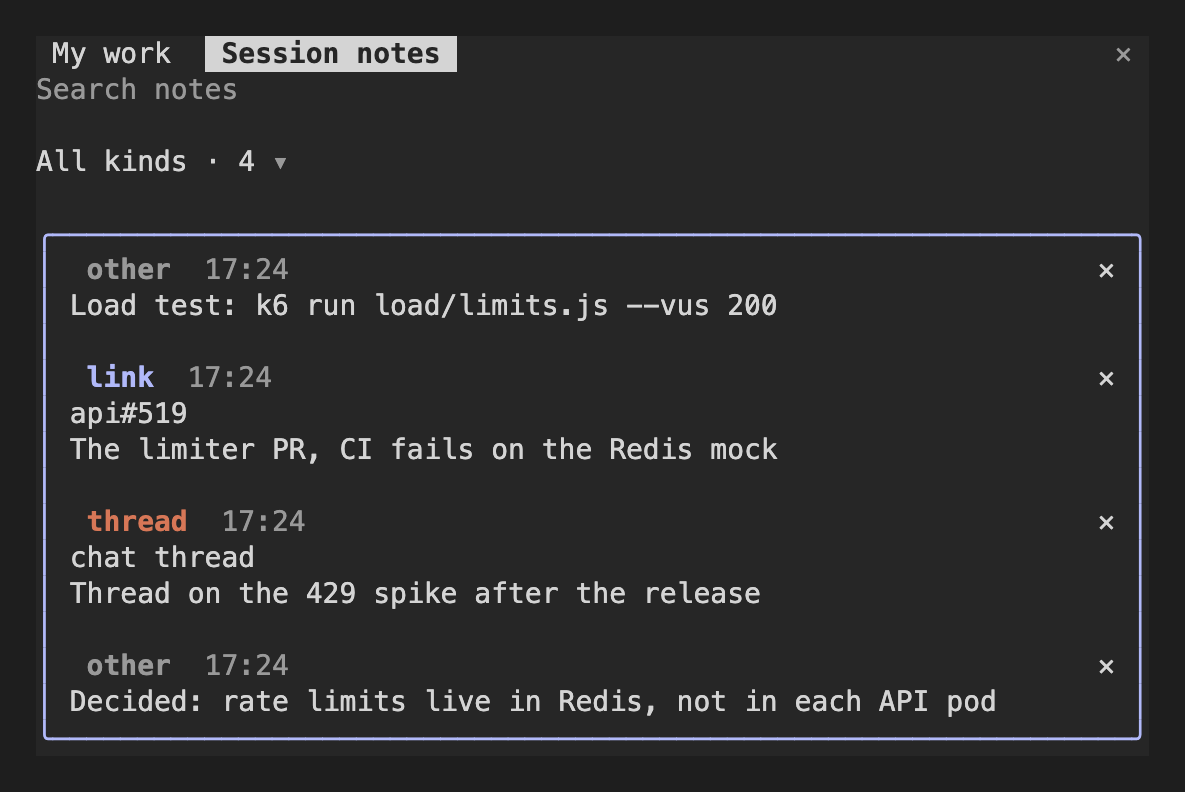
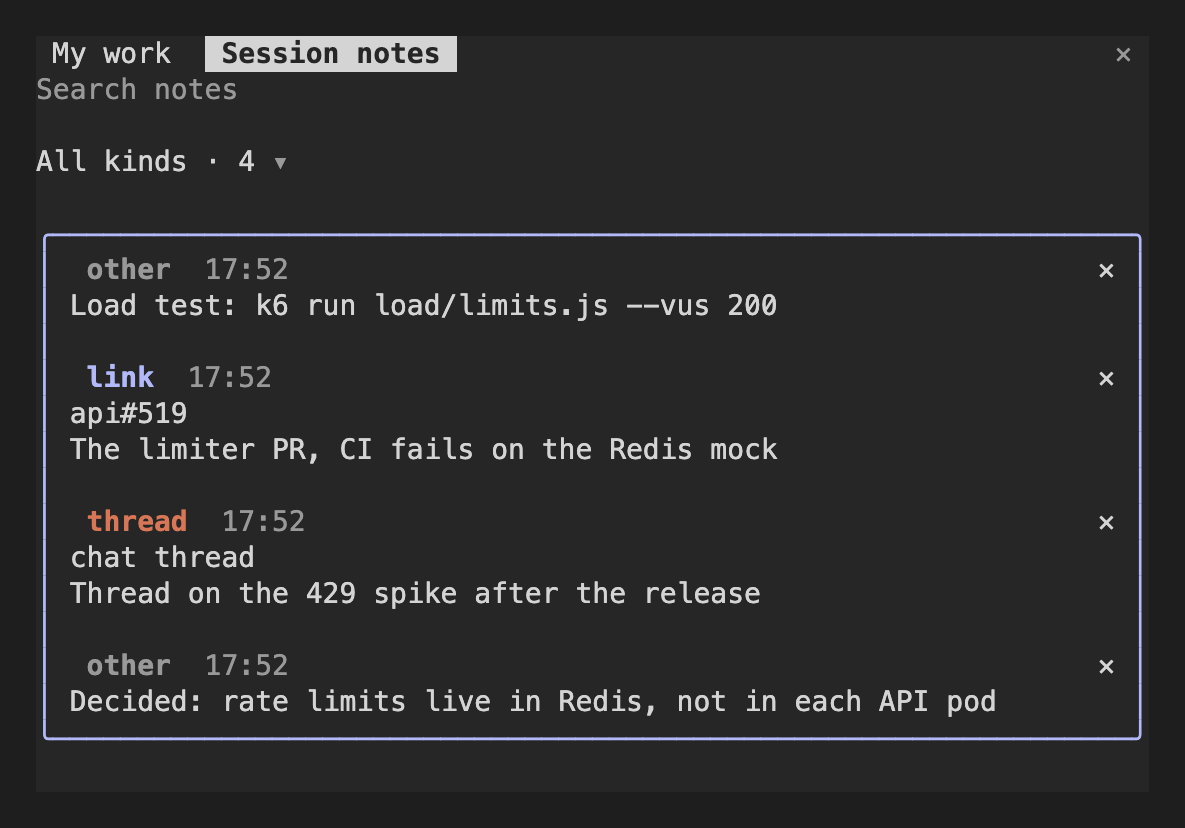
Fix pane counts and refresh the screenshots
- The band says "1 to review" instead of "1 review requests for you".
- The tasks tile counts open tasks only, as the band does.
- Screenshots taken from a terminal session with the current labels.

diff --git a/hooks/tasks.tsx b/hooks/tasks.tsx
@@ -433,7 +433,7 @@ export async function tasksBand($: Dollar, e: Frozen<RenderInput<'AbovePrompt'>>
         snap.issues && t('{n} tasks', { n: snap.issues.filter(i => i.category !== 'done').length }),
         snap.prs && t('{n} PRs', { n: snap.prs.length }),
         failed > 0 && t('{n} ✗ CI', { n: failed }),
-        forMe > 0 && t('{n} review requests for you', { n: forMe }),
+        forMe > 0 && t('{n} to review', { n: forMe }),
         snap.loggedSeconds !== null && t('{done} of {hours}h', { done: hm(snap.loggedSeconds), hours }),
       ].filter(Boolean)
     : []
@@ -733,7 +733,7 @@ export function registerTasks(on: On): void {
 
         <Box flexDirection="row" gap={1} marginTop={1}>
           {hasJira && tile(t('hours'), logged === null ? '—' : hm(logged), hoursColor)}
-          {hasJira && tile(t('tasks'), count(snap.issues?.length), 'suggestion')}
+          {hasJira && tile(t('tasks'), count(snap.issues?.filter(i => i.category !== 'done').length), 'suggestion')}
           {tile(failed ? t('CI failed') : t('PRs'), failed ? String(failed) : count(snap.prs?.length), failed ? 'error' : 'success')}
         </Box>
 

diff --git a/tests/tasks.test.tsx b/tests/tasks.test.tsx
@@ -273,7 +273,7 @@ test('the button above the prompt toggles the pane and shows a summary while it 
     })
     expect((await band.find({ type: 'Button', key: 'toggle-work' }))?.text).toBe('▸ My work')
     expect(await band.find({ type: 'Text', text: 'other mod' })).toBeDefined()
-    expect(await band.find({ type: 'Text', text: /2 tasks · 2 PRs · 1 ✗ CI · 1 review requests for you · 2h 00m of 8h/ })).toBeDefined()
+    expect(await band.find({ type: 'Text', text: /2 tasks · 2 PRs · 1 ✗ CI · 1 to review · 2h 00m of 8h/ })).toBeDefined()
 
     await band.press({ key: 'toggle-work' })
     expect((await band.find({ type: 'Button', key: 'toggle-work' }))?.text).toBe('▾ My work')

diff --git a/README.md b/README.md
@@ -14,7 +14,7 @@ Jira is optional: without it the work pane shows your PRs alone.
 <table>
   <tr>
     <td valign="top"><img src="assets/work-pane.png" alt="The My work pane: hours logged today, Jira tasks by status, PRs grouped by CI and review state" width="420"></td>
-    <td valign="top"><img src="assets/notes-pane.png" alt="The Session notes pane: a command, a PR link, a chat thread and a decision saved during the session" width="420"></td>
+    <td valign="top"><img src="assets/notes-pane.png" alt="The Session notes pane: a command, a PR link, a chat thread and a decision saved with /note" width="420"></td>
   </tr>
 </table>
 
